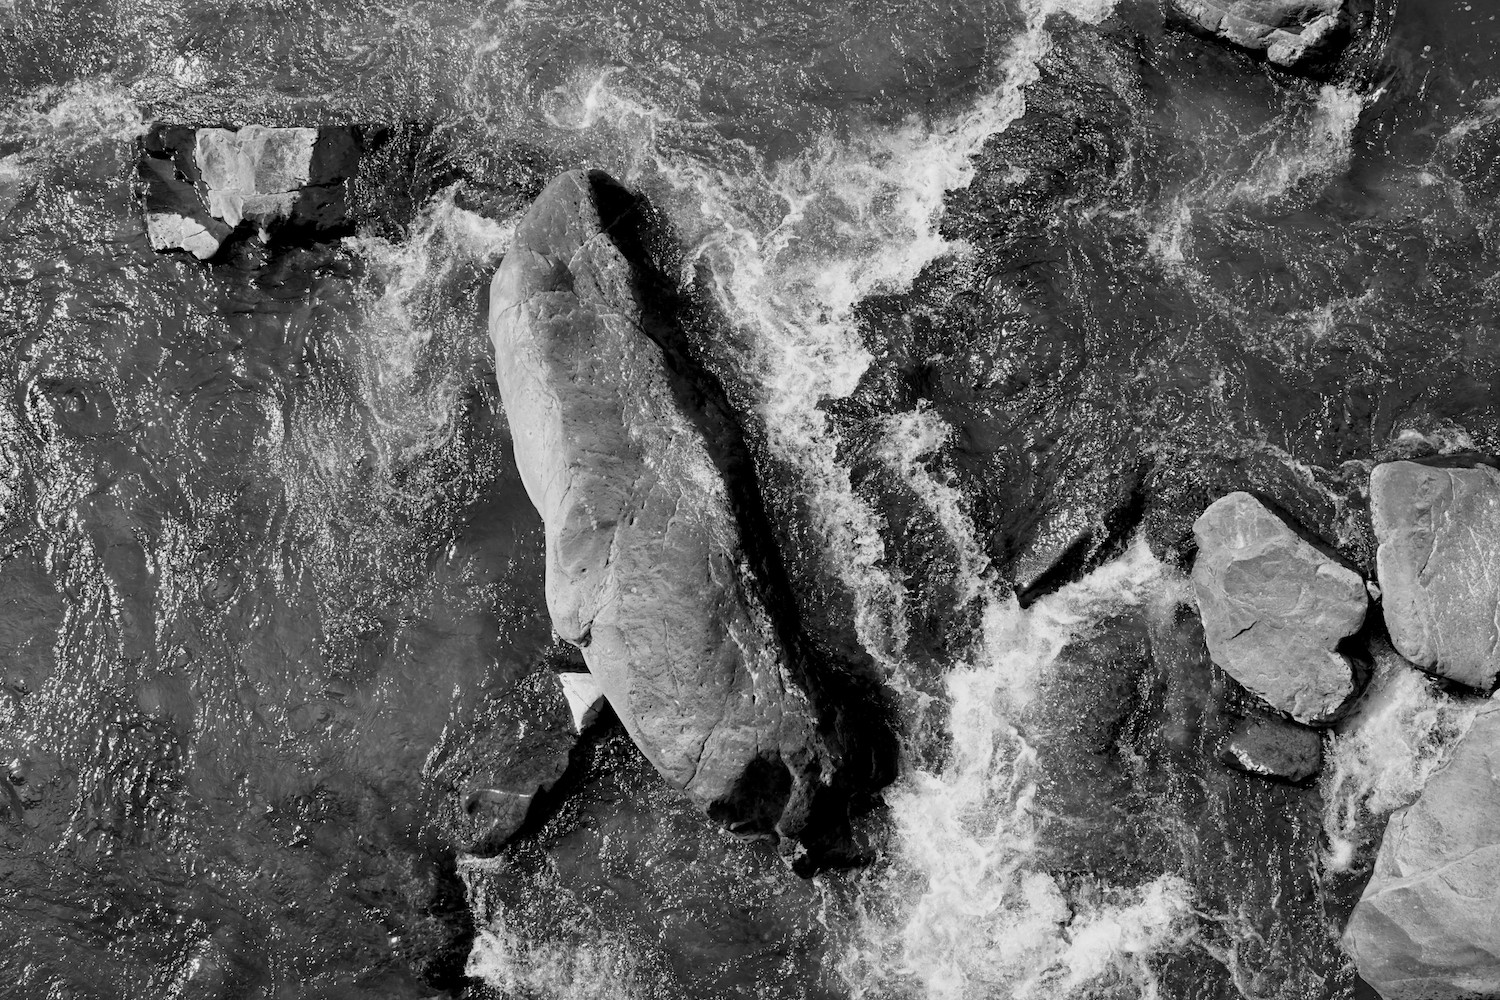
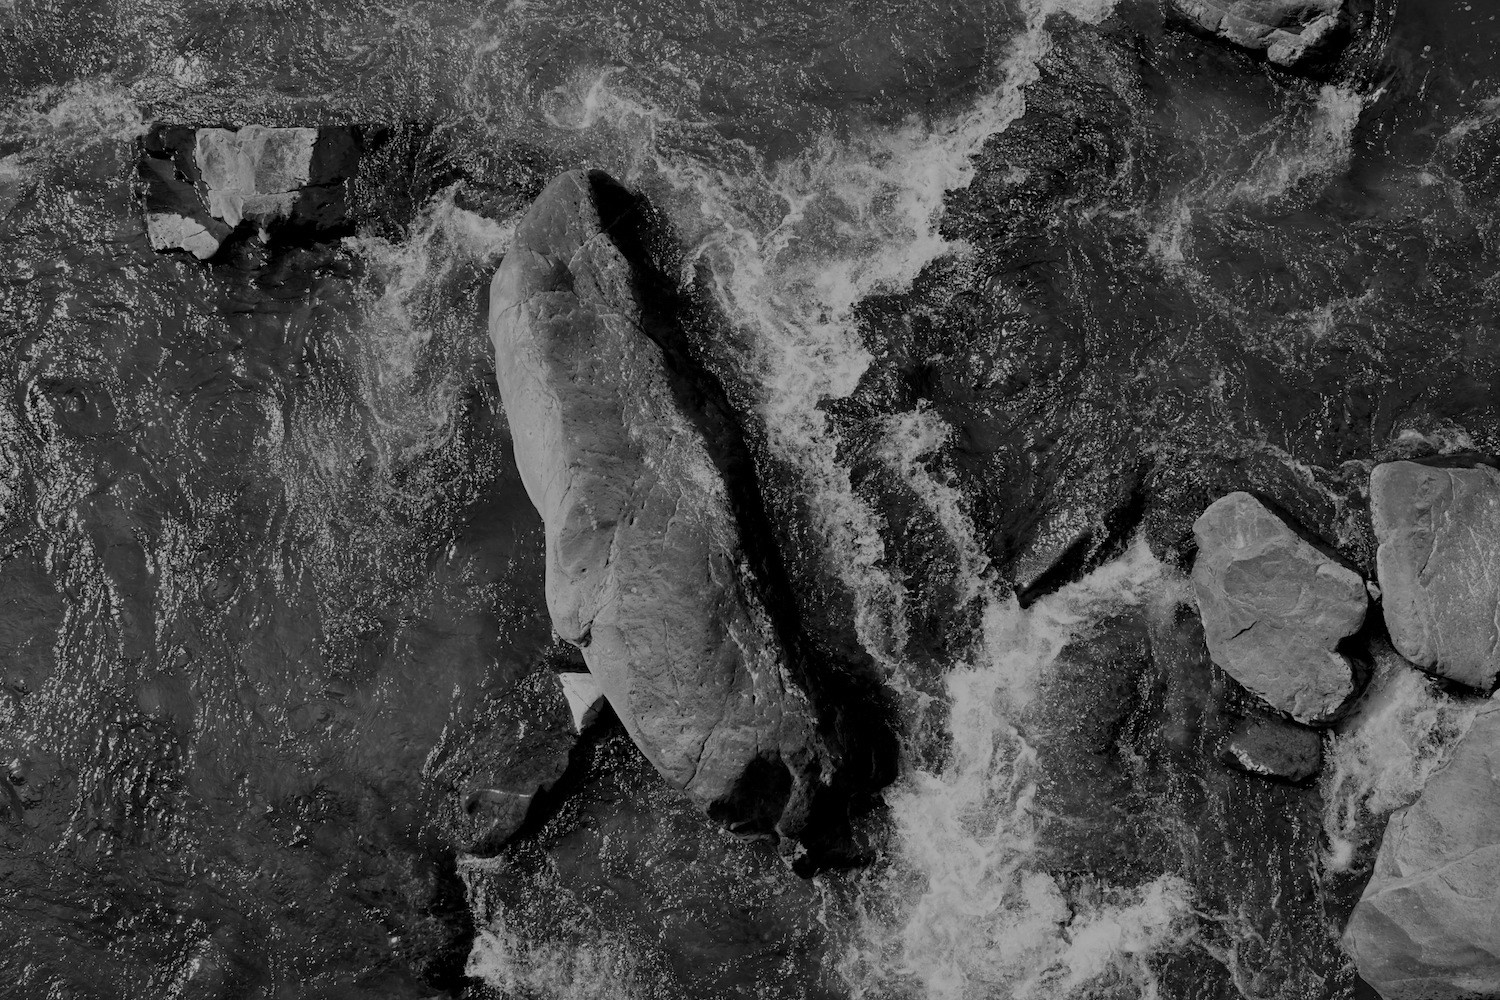
Update eyecatch to takedao_river

diff --git a/public/css/common.css b/public/css/common.css
@@ -1,2 +1,2 @@
-html,body,div,span,applet,object,iframe,h1,h2,h3,h4,h5,h6,p,blockquote,pre,a,abbr,acronym,address,big,cite,code,del,dfn,em,img,ins,kbd,q,s,samp,small,strike,strong,sub,sup,tt,var,b,u,i,center,dl,dt,dd,ol,ul,li,fieldset,form,label,legend,table,caption,tbody,tfoot,thead,tr,th,td,article,aside,canvas,details,embed,figure,figcaption,footer,header,hgroup,menu,nav,output,ruby,section,summary,time,mark,audio,video{margin:0;padding:0;border:0;font:inherit;font-size:100%;vertical-align:baseline}html{line-height:1}ol,ul{list-style:none}table{border-collapse:collapse;border-spacing:0}caption,th,td{text-align:left;font-weight:normal;vertical-align:middle}q,blockquote{quotes:none}q:before,q:after,blockquote:before,blockquote:after{content:"";content:none}a img{border:none}article,aside,details,figcaption,figure,footer,header,hgroup,main,menu,nav,section,summary{display:block}*{box-sizing:border-box}html{font-size:62.5%;min-height:100%}body{font-size:16px;font-family:"Helvetica neue",Arial,Roboto,"Droid Sans","ヒラギノ角ゴ ProN W3","Hiragino Kaku Gothic ProN","メイリオ",Meiryo,sans-serif;line-height:1em;background-color:#fff;color:rgba(0,0,0,0.87);display:flex;min-height:100vh;flex-direction:column}main{flex:1}.container{padding:0 20px;margin-left:auto;margin-right:auto;max-width:980px;width:100%}b{font-weight:bold}a{color:rgba(0,0,0,0.54);text-decoration:none}a:hover{color:rgba(0,0,0,0.38)}h1{margin:10px 0px;font-size:38px;line-height:44px;font-weight:700}h2{margin:10px 0px;font-size:32px;line-height:36px;font-weight:700}h3{margin:10px 0px 1px;font-size:21px;line-height:30px;font-weight:400}h4{margin:10px 0px;font-size:18px;line-height:24px;font-weight:700}h5{margin:10px 0px;font-size:14px;line-height:20px;font-weight:700}h6{margin:10px 0px;font-size:12px;line-height:18px;font-weight:700}.row{margin-right:-15px;margin-left:-15px;overflow:hidden;*zoom:1}.grid{position:relative;min-height:1px;padding-right:15px;padding-left:15px}.grid-1{float:left;width:8.33333%}.grid-2{float:left;width:16.66667%}.grid-3{float:left;width:25%}.grid-4{float:left;width:33.33333%}.grid-5{float:left;width:41.66667%}.grid-6{float:left;width:50%}.grid-7{float:left;width:58.33333%}.grid-8{float:left;width:66.66667%}.grid-9{float:left;width:75%}.grid-10{float:left;width:83.33333%}.grid-11{float:left;width:91.66667%}.grid-12{float:left;width:100%}header{position:relative;padding:0 0 22% 0}@media screen and (max-width: 900px){header{padding:0 0 35% 0}}@media screen and (max-width: 600px){.header-content .profileicon{border:2px solid #eee;width:80px;height:80px}header .header-content{margin-left:-140px;margin-top:-20px}.header-content .profiletext{padding-top:12px;padding-left:15px}.header-content .profiletext .name{font-size:14px}.header-content .profiletext .role{font-size:25px}.header-content .profiletext .lang{font-size:12px}}nav{background-color:#222222}nav .container{display:flex;display:-webkit-flex;justify-content:space-between}.nav-brand{display:flex;display:-webkit-flex;justify-content:flex-start;align-items:center}.nav-brand .name{font-family:"Raleway", "Helvetica", "ヒラギノ角ゴ ProN W3", "Hiragino Kaku Gothic ProN", sans-serif;color:#ffffff;font-size:24px;font-weight:bold;padding-left:15px}.nav{display:flex;display:-webkit-flex;justify-content:flex-end;align-items:center}.nav a,.nav button{font-family:"Raleway", "Helvetica", "ヒラギノ角ゴ ProN W3", "Hiragino Kaku Gothic ProN", sans-serif;font-size:16px;background-color:transparent;color:#ffffff;border-style:none;padding:15px;display:block;border-bottom:5px solid transparent}.nav a:hover,.nav button:hover{border-bottom:5px solid #ffffff}@media screen and (max-width: 600px){.nav{justify-content:space-between}nav>.container{flex-direction:column}.nav-brand{display:none}}#eyecatch{display:block;background:no-repeat 50% 0;background-size:cover;-webkit-background-size:cover;background-image:url("/img/eyecatches/moss_on_the_wall.jpg")}.header-content{position:absolute;top:50%;left:50%;margin-left:-200px;margin-top:-35px;display:flex;display:-webkit-flex;flex-direction:row;-webkit-flex-direction:row}.profileicon{border:4px solid #eee;width:110px;height:110px;-moz-border-radius:50%;-webkit-border-radius:50%;border-radius:50%;background-image:url(/img/profile.png);background-attachment:center;background-position:center;background-repeat:no-repeat;background-size:cover}.profiletext{color:#fff;font-family:"Helvetica", sans-serif;font-weight:bold;display:flex;display:-webkit-flex;flex-direction:column;-webkit-flex-direction:column;justify-content:space-between;-webkit-justify-content:space-between;padding-top:20px;padding-left:20px}.profiletext .name{font-size:20px}.profiletext .role{font-size:32px}.profiletext .lang{font-size:16px}.contents h1,.contents h2,.contents h3{font-family:"Raleway", "Helvetica", "ヒラギノ角ゴ ProN W3", "Hiragino Kaku Gothic ProN", sans-serif}.contents h1{margin:50px 0 30px 0}.contents h2{margin:50px 0 30px 0}.contents h3{margin:25px 0 15px 0}.contents ul{padding-left:30px;margin-bottom:10px}.contents li{list-style-type:disc;padding:7px 0;line-height:150%}.contents p{line-height:200%;margin-bottom:10px}footer{margin:30px auto;padding:30px 0;border-top:1px solid rgba(0,0,0,0.1);-moz-box-shadow:#fff 0 1px 0 inset;-webkit-box-shadow:#fff 0 1px 0 inset;box-shadow:#fff 0 1px 0 inset}footer p{text-align:center;font-size:15px;font-weight:bold}footer .copyright{color:rgba(0,0,0,0.38);font-size:12px}.social-icons{font-size:22px;padding:20px 0 30px 0;display:flex;display:-webkit-flex;flex-direction:row;-webkit-flex-direction:row;justify-content:center;-webkit-justify-content:center;align-items:baseline;-webkit-align-items:baseline}.social-icons li:nth-child(4){color:#d14233;font-size:28px;padding:0 10px;animation:pulsation 3.0s infinite ease-in-out;-webkit-animation:pulsation 3.0s infinite ease-in-out}.social-icons a{padding:10px}@keyframes pulsation{80%{transform:scale(1);-webkit-transform:scale(1)}85%{transform:scale(1.3);-webkit-transform:scale(1.3)}90%{transform:scale(1);-webkit-transform:scale(1)}95%{transform:scale(1.3);-webkit-transform:scale(1.3)}100%{transform:scale(1);-webkit-transform:scale(1)}}.work-card-list{display:flex;display:-webkit-flex;flex-wrap:wrap}.work-card-list card{width:calc(100% * (1/3) - 10px - 1px);margin:5px}@media screen and (min-width: 480px) and (max-width: 800px){.work-card-list card{width:calc(100% * (1/2) - 10px - 1px);margin:5px}}@media screen and (max-width: 480px){.work-card-list{flex-direction:column}.work-card-list card{width:100%}}.heading-primary{color:#af430a;padding:30px 0;font-family:'Prata', serif}.loading-wrap{width:60px;height:60px;position:absolute;top:50%;left:50%;margin:100px auto;background:#efc380;animation:rotation ease-in-out 2s infinite;border-radius:30px}.triangle1,.triangle2,.triangle3{border-width:0 20px 30px 20px;border-style:solid;border-color:transparent;border-bottom-color:#d62c1a;height:0;width:0;position:absolute;left:10px;top:-10px;animation:fadecolor 2s 1s infinite}.triangle2,.triangle3{content:'';top:20px;left:30px;animation-delay:1.1s}.triangle3{left:-10px;animation-delay:1.2s}@keyframes rotation{0%{transform:rotate(0deg)}20%{transform:rotate(360deg)}100%{transform:rotate(360deg)}}@keyframes fadecolor{0%{border-bottom-color:#ea6153}100%{border-bottom-color:#d62c1a}}
+html,body,div,span,applet,object,iframe,h1,h2,h3,h4,h5,h6,p,blockquote,pre,a,abbr,acronym,address,big,cite,code,del,dfn,em,img,ins,kbd,q,s,samp,small,strike,strong,sub,sup,tt,var,b,u,i,center,dl,dt,dd,ol,ul,li,fieldset,form,label,legend,table,caption,tbody,tfoot,thead,tr,th,td,article,aside,canvas,details,embed,figure,figcaption,footer,header,hgroup,menu,nav,output,ruby,section,summary,time,mark,audio,video{margin:0;padding:0;border:0;font:inherit;font-size:100%;vertical-align:baseline}html{line-height:1}ol,ul{list-style:none}table{border-collapse:collapse;border-spacing:0}caption,th,td{text-align:left;font-weight:normal;vertical-align:middle}q,blockquote{quotes:none}q:before,q:after,blockquote:before,blockquote:after{content:"";content:none}a img{border:none}article,aside,details,figcaption,figure,footer,header,hgroup,main,menu,nav,section,summary{display:block}*{box-sizing:border-box}html{font-size:62.5%;min-height:100%}body{font-size:16px;font-family:"Helvetica neue",Arial,Roboto,"Droid Sans","ヒラギノ角ゴ ProN W3","Hiragino Kaku Gothic ProN","メイリオ",Meiryo,sans-serif;line-height:1em;background-color:#fff;color:rgba(0,0,0,0.87);display:flex;min-height:100vh;flex-direction:column}main{flex:1}.container{padding:0 20px;margin-left:auto;margin-right:auto;max-width:980px;width:100%}b{font-weight:bold}a{color:rgba(0,0,0,0.54);text-decoration:none}a:hover{color:rgba(0,0,0,0.38)}h1{margin:10px 0px;font-size:38px;line-height:44px;font-weight:700}h2{margin:10px 0px;font-size:32px;line-height:36px;font-weight:700}h3{margin:10px 0px 1px;font-size:21px;line-height:30px;font-weight:400}h4{margin:10px 0px;font-size:18px;line-height:24px;font-weight:700}h5{margin:10px 0px;font-size:14px;line-height:20px;font-weight:700}h6{margin:10px 0px;font-size:12px;line-height:18px;font-weight:700}.row{margin-right:-15px;margin-left:-15px;overflow:hidden;*zoom:1}.grid{position:relative;min-height:1px;padding-right:15px;padding-left:15px}.grid-1{float:left;width:8.33333%}.grid-2{float:left;width:16.66667%}.grid-3{float:left;width:25%}.grid-4{float:left;width:33.33333%}.grid-5{float:left;width:41.66667%}.grid-6{float:left;width:50%}.grid-7{float:left;width:58.33333%}.grid-8{float:left;width:66.66667%}.grid-9{float:left;width:75%}.grid-10{float:left;width:83.33333%}.grid-11{float:left;width:91.66667%}.grid-12{float:left;width:100%}header{position:relative;padding:0 0 22% 0}@media screen and (max-width: 900px){header{padding:0 0 35% 0}}@media screen and (max-width: 600px){.header-content .profileicon{border:2px solid #eee;width:80px;height:80px}header .header-content{margin-left:-140px;margin-top:-20px}.header-content .profiletext{padding-top:12px;padding-left:15px}.header-content .profiletext .name{font-size:14px}.header-content .profiletext .role{font-size:25px}.header-content .profiletext .lang{font-size:12px}}nav{background-color:#222222}nav .container{display:flex;display:-webkit-flex;justify-content:space-between}.nav-brand{display:flex;display:-webkit-flex;justify-content:flex-start;align-items:center}.nav-brand .name{font-family:"Raleway", "Helvetica", "ヒラギノ角ゴ ProN W3", "Hiragino Kaku Gothic ProN", sans-serif;color:#ffffff;font-size:24px;font-weight:bold;padding-left:15px}.nav{display:flex;display:-webkit-flex;justify-content:flex-end;align-items:center}.nav a,.nav button{font-family:"Raleway", "Helvetica", "ヒラギノ角ゴ ProN W3", "Hiragino Kaku Gothic ProN", sans-serif;font-size:16px;background-color:transparent;color:#ffffff;border-style:none;padding:15px;display:block;border-bottom:5px solid transparent}.nav a:hover,.nav button:hover{border-bottom:5px solid #ffffff}@media screen and (max-width: 600px){.nav{justify-content:space-between}nav>.container{flex-direction:column}.nav-brand{display:none}}#eyecatch{display:block;background:no-repeat 50% 0;background-size:cover;-webkit-background-size:cover;background-image:url("/img/eyecatches/takedao_river.jpg")}.header-content{position:absolute;top:50%;left:50%;margin-left:-200px;margin-top:-35px;display:flex;display:-webkit-flex;flex-direction:row;-webkit-flex-direction:row}.profileicon{border:4px solid #eee;width:110px;height:110px;-moz-border-radius:50%;-webkit-border-radius:50%;border-radius:50%;background-image:url(/img/icon.png);background-attachment:center;background-position:center;background-repeat:no-repeat;background-size:cover}.profiletext{color:#fff;font-family:"Helvetica", sans-serif;font-weight:bold;display:flex;display:-webkit-flex;flex-direction:column;-webkit-flex-direction:column;justify-content:space-between;-webkit-justify-content:space-between;padding-top:20px;padding-left:20px}.profiletext .name{font-size:20px}.profiletext .role{font-size:32px}.profiletext .lang{font-size:16px}.contents h1,.contents h2,.contents h3{font-family:"Raleway", "Helvetica", "ヒラギノ角ゴ ProN W3", "Hiragino Kaku Gothic ProN", sans-serif}.contents h1{margin:50px 0 30px 0}.contents h2{margin:50px 0 30px 0}.contents h3{margin:25px 0 15px 0}.contents ul{padding-left:30px;margin-bottom:10px}.contents li{list-style-type:disc;padding:7px 0;line-height:150%}.contents p{line-height:200%;margin-bottom:10px}footer{margin:30px auto;padding:30px 0;border-top:1px solid rgba(0,0,0,0.1);-moz-box-shadow:#fff 0 1px 0 inset;-webkit-box-shadow:#fff 0 1px 0 inset;box-shadow:#fff 0 1px 0 inset}footer p{text-align:center;font-size:15px;font-weight:bold}footer .copyright{color:rgba(0,0,0,0.38);font-size:12px}.social-icons{font-size:22px;padding:20px 0 30px 0;display:flex;display:-webkit-flex;flex-direction:row;-webkit-flex-direction:row;justify-content:center;-webkit-justify-content:center;align-items:baseline;-webkit-align-items:baseline}.social-icons li:nth-child(4){color:#d14233;font-size:28px;padding:0 10px;animation:pulsation 3.0s infinite ease-in-out;-webkit-animation:pulsation 3.0s infinite ease-in-out}.social-icons a{padding:10px}@keyframes pulsation{80%{transform:scale(1);-webkit-transform:scale(1)}85%{transform:scale(1.3);-webkit-transform:scale(1.3)}90%{transform:scale(1);-webkit-transform:scale(1)}95%{transform:scale(1.3);-webkit-transform:scale(1.3)}100%{transform:scale(1);-webkit-transform:scale(1)}}.work-card-list{display:flex;display:-webkit-flex;flex-wrap:wrap}.work-card-list card{width:calc(100% * (1/3) - 10px - 1px);margin:5px}@media screen and (min-width: 480px) and (max-width: 800px){.work-card-list card{width:calc(100% * (1/2) - 10px - 1px);margin:5px}}@media screen and (max-width: 480px){.work-card-list{flex-direction:column}.work-card-list card{width:100%}}.heading-primary{color:#af430a;padding:30px 0;font-family:'Prata', serif}.loading-wrap{width:60px;height:60px;position:absolute;top:50%;left:50%;margin:100px auto;background:#efc380;animation:rotation ease-in-out 2s infinite;border-radius:30px}.triangle1,.triangle2,.triangle3{border-width:0 20px 30px 20px;border-style:solid;border-color:transparent;border-bottom-color:#d62c1a;height:0;width:0;position:absolute;left:10px;top:-10px;animation:fadecolor 2s 1s infinite}.triangle2,.triangle3{content:'';top:20px;left:30px;animation-delay:1.1s}.triangle3{left:-10px;animation-delay:1.2s}@keyframes rotation{0%{transform:rotate(0deg)}20%{transform:rotate(360deg)}100%{transform:rotate(360deg)}}@keyframes fadecolor{0%{border-bottom-color:#ea6153}100%{border-bottom-color:#d62c1a}}
 /*# sourceMappingURL=common.css.map */

diff --git a/src/scss/layout/_header.scss b/src/scss/layout/_header.scss
@@ -102,7 +102,7 @@ nav {
   background: no-repeat 50% 0;
   background-size: cover;
   -webkit-background-size: cover;
-  background-image: url("/img/eyecatches/moss_on_the_wall.jpg");
+  background-image: url("/img/eyecatches/takedao_river.jpg");
 }
 
 .header-content {
@@ -126,7 +126,7 @@ nav {
 
   @include border-radius(50%);
 
-  background-image: url(/img/profile.png);
+  background-image: url(/img/icon.png);
   background-attachment: center;
   background-position: center;
   background-repeat: no-repeat;
